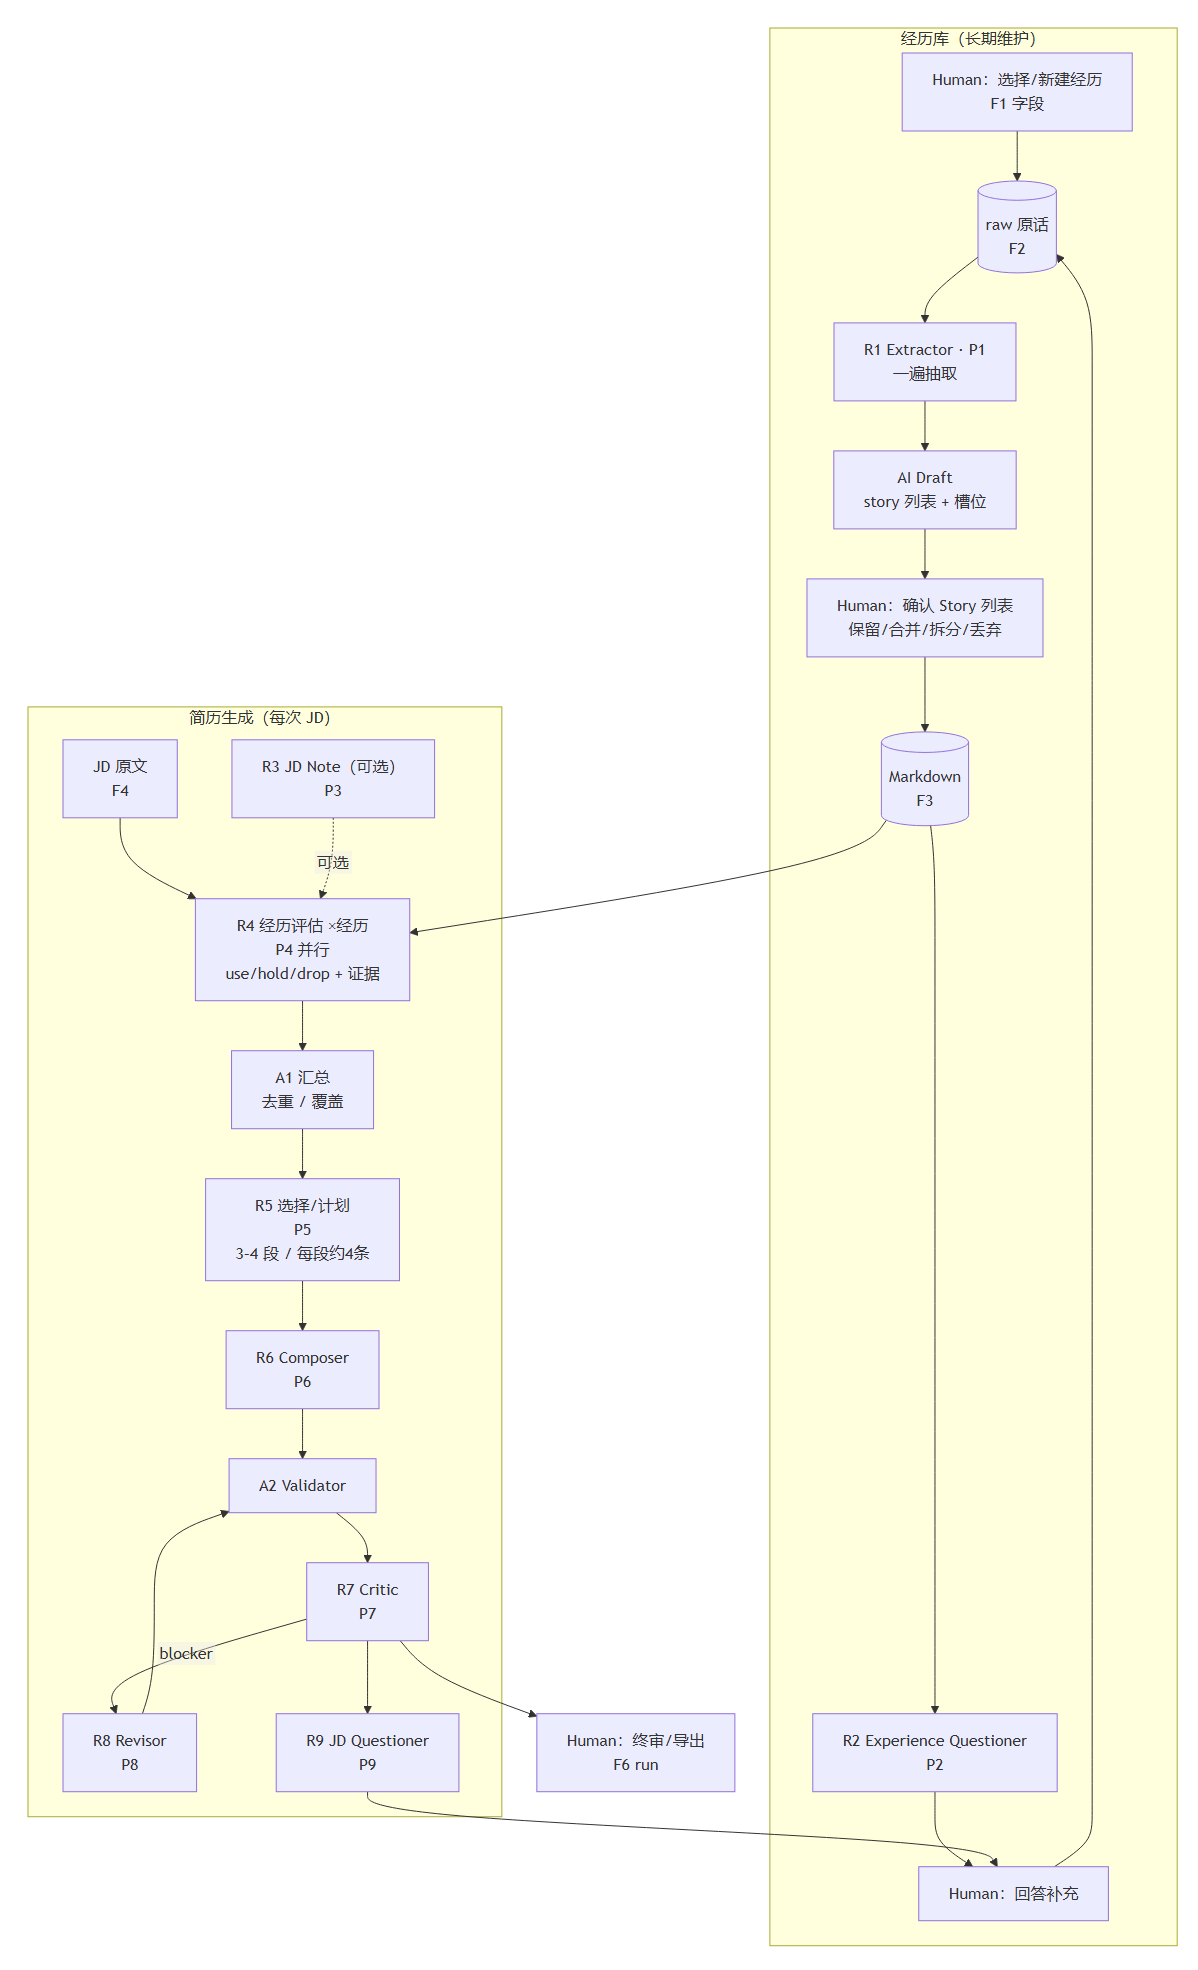
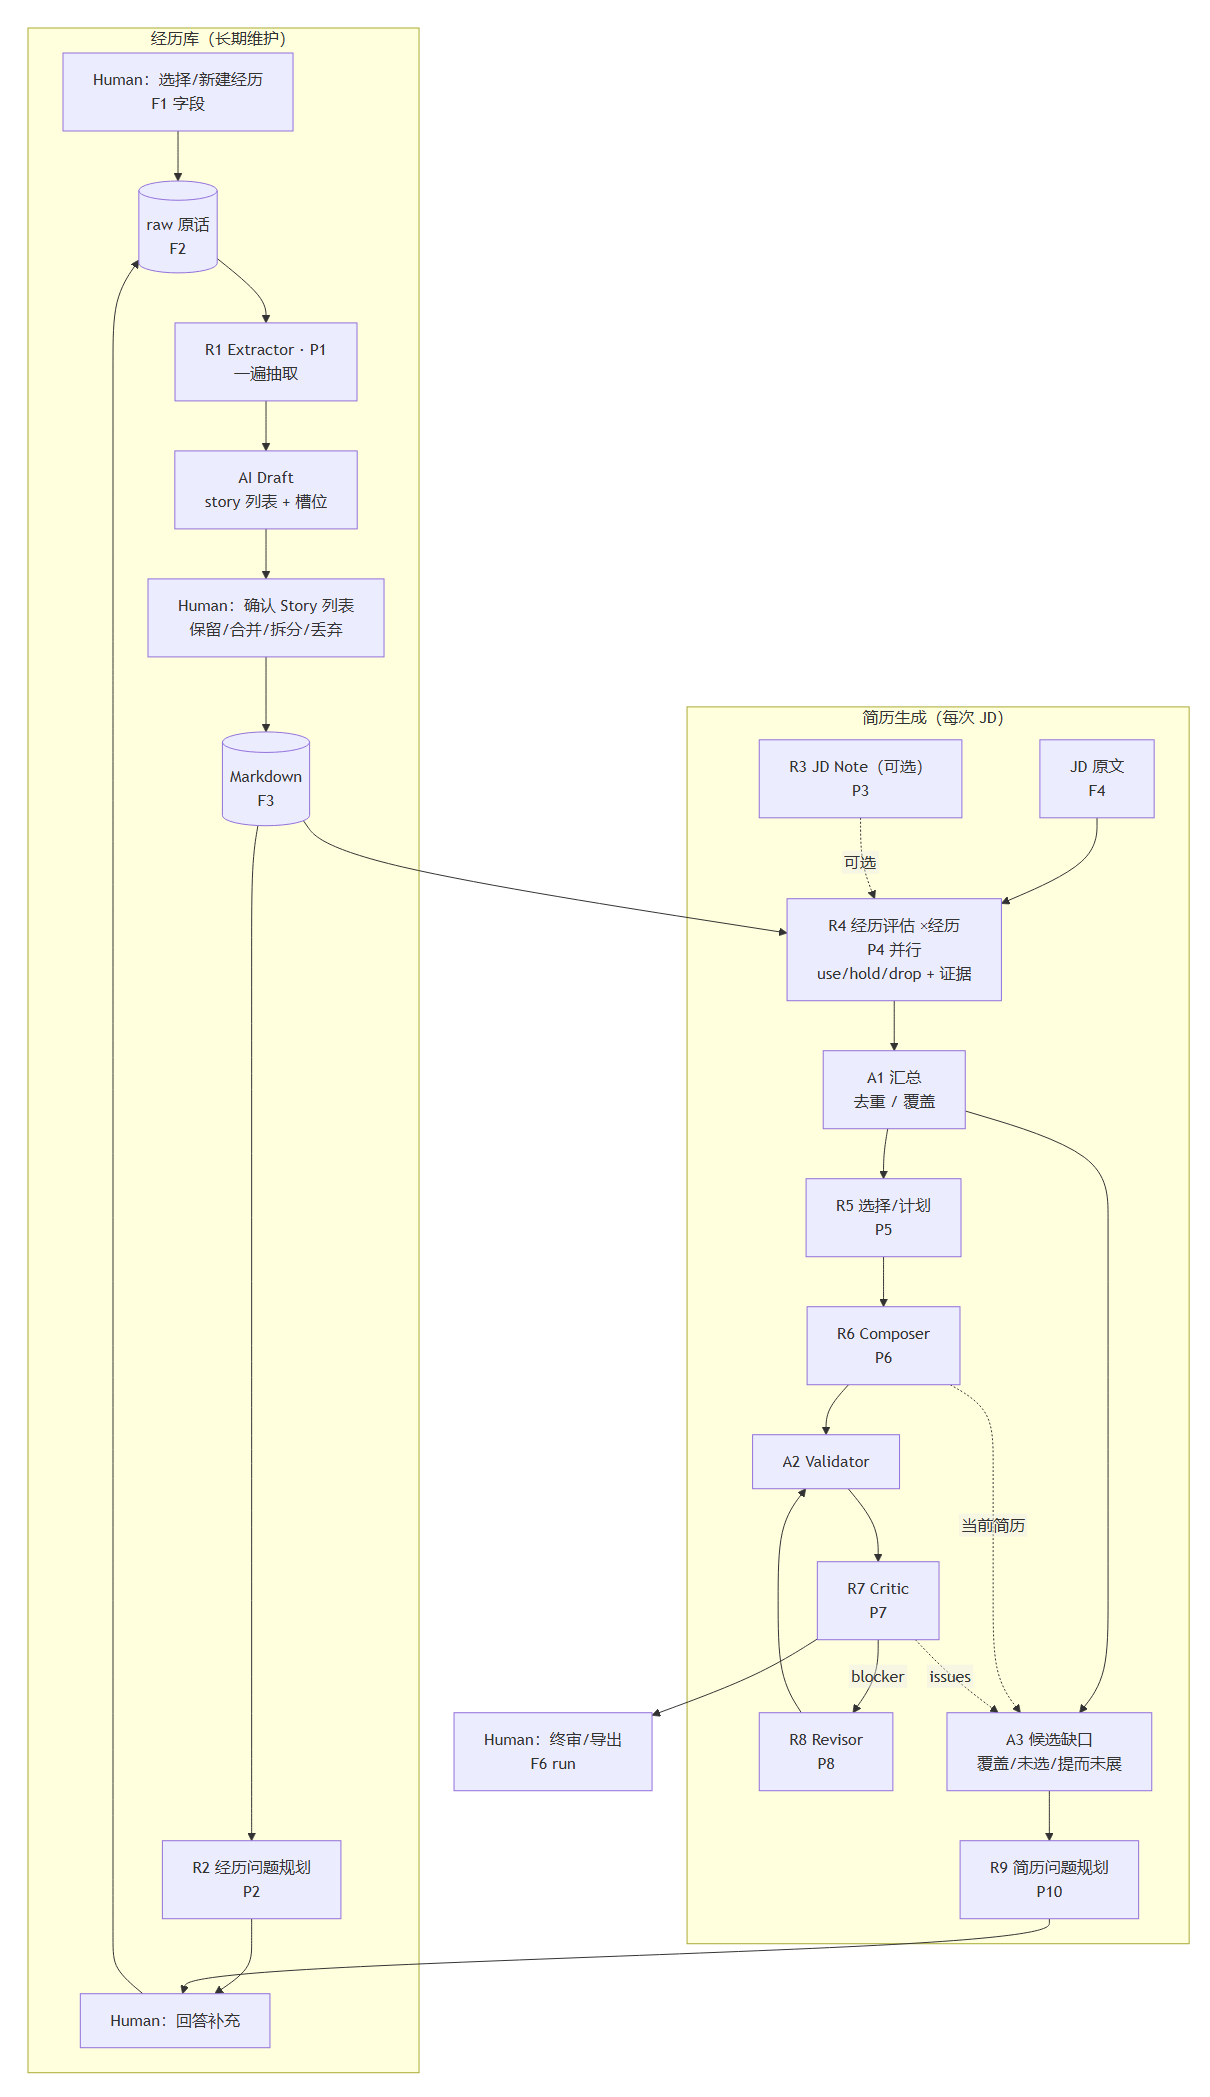
docs: INPUT-FOLLOW 增加两套问题引擎（经历完善/简历新增）、依据与更新频率，更新流程图

diff --git a/prototype/docs/INPUT-FOLLOW.md b/prototype/docs/INPUT-FOLLOW.md
@@ -29,9 +29,9 @@
 | 标记 | 含义 |
 | --- | --- |
 | **F1–F6** | 字段/数据结构 |
-| **P1–P9** | 提示词契约 |
+| **P1–P10** | 提示词契约 |
 | **R0–R9** | 角色（Human / AI 固定角色） |
-| **A1–A2** | 确定性算法节点（非 LLM） |
+| **A1–A3** | 确定性算法节点（非 LLM） |
 
 - **F1** 经历字段：`type / name / role / time`
 - **F2** raw：不可变原话
@@ -236,22 +236,25 @@ time: 2025-10 ~ 2025-11 # 可选
 | --- | --- | --- | --- | --- |
 | R0 | Human | 人 | 新建/选择经历、输入、确认 Story 列表、回答、终审 | — |
 | R1 | Extractor | AI | raw → AI Draft（Story 列表 + 槽位 + Fragment + 未分配细节） | 不写 Markdown、不编事实、不设密度目标 |
-| R2 | Experience Questioner | AI | 经历录入后找缺失/含糊/矛盾，生成问题 | 不补内容、不问泛泛 |
+| R2 | Experience Question Planner | AI | 经历录入后找缺失/含糊/矛盾，生成问题 | 不补内容、不问泛泛、不看 JD |
 | R3 | JD Note | AI（可选） | 带逐字 quote 的 JD 阅读笔记 | 不做 must 门禁、不选材 |
 | R4 | Experience Evaluator | AI（每经历并行） | 原始 JD + 该经历所有 Story → `use/hold/drop` + 证据 + 缺失 | 不跨经历、不打分、不选最终组合 |
 | R5 | Selector/Planner | AI | 汇总各经历评估，决定 3–4 段、每段约 4 条、顺序、背景 | 不编事实、不写 bullet 正文 |
 | R6 | Composer | AI | Story → bullet（约 40 字）+ 背景 | 不改事实、不跨 Story 拼造 |
 | R7 | Critic | AI | 整份简历评审，输出 issues | 不改稿、不新增事实 |
 | R8 | Revisor | AI（有界） | 只按 issues 修订，最多 1–2 轮 | 不扩大范围、不新增事实 |
-| R9 | JD Questioner | AI | 覆盖弱/无证据时生成补充问题 | 不补内容、不设 must 门禁 |
+| R9 | Resume Question Planner | AI | 看 JD+简历+全库，找"可新增一条内容"的覆盖缺口并提问 | 不改写已选 bullet、不做措辞/风格问题 |
 | A1 | Aggregator | 算法 | 合并 R4 结果、去重、覆盖统计 | 不做语义判断 |
-| A2 | Validator | 算法 | schema/引用/字数/顺序/重复校验 | 不改写 |
+| A2 | Validator | 算法 | schema/引用/字数/顺序/重复/问题校验 | 不改写 |
+| A3 | Question Candidate Detector | 算法 | 从覆盖/未选 Story/提而未展/Story 完整度出候选缺口 | 不做提问措辞、不编事实 |
 
 **没有自主 Agent**：R4 是并行 worker，R5 是汇总判断角色，R7/R8 是固定评审/有界修订，全部单轮、固定 I/O。
 
 ---
 
-## 7. 节点契约与提示词（P1–P9）
+## 7. 节点契约与提示词（P1–P10）
+
+> 编号说明：P9 原「JD Questioner」已合并进 P10（Resume Question Planner），P9 号保留空缺。
 
 ### P1 · R1 Extractor（一遍抽取）
 
@@ -408,20 +411,48 @@ time: 2025-10 ~ 2025-11 # 可选
 3. 最多 1 轮（可配 2 轮）；修不掉交人工；
 4. 输出 diff/修改说明。
 
-### P9 · R9 JD Questioner
+### P10 · R9 Resume Question Planner
 
-**输入**：JD 原文 + 覆盖统计 + 草稿。
+**输入**：
+- JD 原文；
+- 当前简历 bullets + 选中的 Story；
+- 全库 Story（含未选中的）；
+- A1 覆盖统计 + R4 matched/missing；
+- A3 候选缺口；
+- Critic issues。
+
 **输出**：
 
 ```json
-{ "questions": [{ "jd_quote": "", "experience_id": "", "story_id": "", "missing": ["metric","scope"], "basis": "", "question": "", "expected_answer": "" }] }
+{
+  "questions": [{
+    "question_id": "hash",
+    "scope": "resume",
+    "purpose": "add_content|fix_evidence",
+    "basis_type": "coverage_missing|adjacent_unselected|mention_not_expanded|evidence_blocker",
+    "action": "add_story|add_bullet",
+    "jd_quote": "逐字引用",
+    "experience_id": "",
+    "story_id": "",
+    "basis_quote": "当前 bullet/Story 原文",
+    "missing": ["metric","scope"],
+    "question": "你在 A 里提到用过 RAG，但只写了使用；JD 要求 RAG 落地，能否补充你具体怎么用（检索范围、召回、评估）？",
+    "expected_answer": { "fields": ["workflow","metric"], "format": "一句话" },
+    "priority": "high|medium|low",
+    "expected_effect": "补一条 RAG 落地 bullet，覆盖 JD 第 3 条"
+  }]
+}
 ```
 
 **提示词硬规则**：
-1. 只针对"重要且覆盖弱/无证据"的要求；
-2. 必须引用 JD 原文和现有 Story/bullet；
-3. 一次一个维度；最多 3 条；
-4. 不假设事实；回答写回 raw，重新走 P1。
+1. **已选中的 bullet 视为可信**：不要提"改措辞/换风格/改事实"的问题；这些交给 Critic/Revisor；
+2. 只问"回答后能**新增一条故事/内容**（或补足一条证据）"的问题；
+3. 问题必须同时引用：JD 原文 + 当前依据（bullet/Story/raw）；
+4. 优先从**未选中的 direct/adjacent Story**里找，而不是让用户从零讲；
+5. 一次只问一个缺失维度；答案可映射到 Story 字段；
+6. 最多 3 条；按覆盖影响排序；不设 must 门禁；
+7. 若回答只能改善措辞/风格 → 不提问；
+8. 不假设事实、不替用户回答。
 
 ### A1 · Aggregator（算法）
 
@@ -437,7 +468,23 @@ time: 2025-10 ~ 2025-11 # 可选
 2. `jd_quote` ∈ JD；`story_quote/evidence_quote` ∈ Story 原文或 raw；
 3. 字数/背景格式；重复 bullet；
 4. 父 Story 不得作为 bullet 证据；
-5. 输出 issues（与 Critic 同 schema），不改稿。
+5. 输出 issues（与 Critic 同 schema），不改稿；问题对象也必须过一遍 schema/basis/target 校验。
+
+### A3 · Question Candidate Detector（算法）
+
+输入：R4/A1 覆盖、当前简历、全库 Story、Story 完整度、Critic issues。
+输出候选（不写问题文案）：
+
+```json
+[{ "scope": "experience|resume", "basis_type": "", "target": { "experience_id": "", "story_id": "", "bullet_id": "" }, "jd_quote": "", "basis_quote": "", "missing": [], "source": "" }]
+```
+
+规则：
+1. 经历侧：Story 缺字段、raw 未分配、矛盾、含糊动作；
+2. 简历侧：JD 覆盖 none/弱、库中 direct/adjacent 但未选的 Story、已选 bullet 提到但证据只到 adjacent/partial；
+3. 去重（target+basis_type+basis_quote）、不做措辞、不编事实；
+4. 候选交给 P2/P10，不直接展示。
+
 
 ---
 
@@ -460,8 +507,9 @@ time: 2025-10 ~ 2025-11 # 可选
 | 13 | A2 | 草稿 | 校验 | issues |
 | 14 | R7 | 草稿+JD | P7 | issues |
 | 15 | R8（条件） | 草稿+blocker | P8 | 修订稿+diff |
-| 16 | R9（条件） | coverage/草稿 | P9 | 问题 |
-| 17 | R0 | 草稿+issues | 终审/导出 | run 完成 |
+| 16 | A3 | coverage/简历/全库 | 候选缺口检测 | candidates |
+| 17 | R9（条件） | candidates | P10 | 简历问题 |
+| 18 | R0 | 草稿+issues | 终审/导出 | run 完成 |
 
 **落盘**：
 - `raw/raw_<id>.json`：`{raw_id, experience_id, text, at}`；
@@ -484,21 +532,138 @@ time: 2025-10 ~ 2025-11 # 可选
 
 ---
 
-## 10. 问题机制
+## 10. 问题引擎（两套问题，不混用）
 
-- 两种触发：经历录入后（R2）；JD 生成后（R9）。
-- Gap/Question 必须带：`{scope, experience_id, story_id, missing[], basis_quote, question, expected_answer}`。
-- 提问门槛：回答会改变 bullet 质量；否则不问。
-- 回答 → 新 raw → P1 Draft → 人确认 Story 列表 → 更新 Markdown → 局部重跑 R4/R5/R6。
-- 禁止：泛问、诱导编造、把答案直接写进正文。
+### 10.1 先定"为什么问"
 
----
+| 问题类型 | 目的 | 不能用来做什么 |
+| --- | --- | --- |
+| **经历问题（Experience Question）** | 让库里的 Story 更完整、更可复用、更能支撑未来 bullet | 不替用户编内容；不改已确认的事实；不是为了"问而问" |
+| **简历问题（Resume Question）** | 提升简历对目标 JD 的覆盖与贴合；**新增一条内容/故事** | 不改写已选中的可信 bullet；不为了措辞/风格提问（那是 Critic/Revisor 的事） |
+
+两者共用 `Question` 对象、存储和展示层，但**生成依据、目的、输入、提示词完全分开**。
+
+### 10.2 生成依据（basis）从哪来
+
+#### 经历问题
+
+| basis_type | 依据 | 例子 | 目的 |
+| --- | --- | --- | --- |
+| `story_incomplete` | Story 缺 `result` / `metric` / `ownership` / `scope` / 关键上下文 | "你写了转化率提升，但没写口径" | 补全 Story |
+| `raw_unassigned` | `unassigned_details` 或 raw 里有信息点没进任何 Story/Fragment | "原文提到复盘文档，但 Story 里没有" | 捕获遗漏事实 |
+| `contradiction` | Story 之间/Story 与 raw 的时间、数字、角色冲突 | "一处写 2000 份，一处写 200 份" | 消除矛盾 |
+| `vague_action` | 动作过于笼统，无法写 bullet | "负责运营"但没有具体动作/结果 | 具体化 |
+
+#### 简历问题
+
+| basis_type | 依据 | 例子 | 目的 |
+| --- | --- | --- | --- |
+| `coverage_missing` | JD 引用在 A1 覆盖中为 `none`/弱，且库里有相关经历 | JD 要求 RAG 落地，但简历没体现 | **新增 Story/bullet** |
+| `adjacent_unselected` | R4 发现库中 Story 有 `direct/adjacent` 证据，但没被选进简历 | A 经历里有 RAG 项目，但这次没选 | 新增一条内容 |
+| `mention_not_expanded` | 已选 bullet/Story 提到了 JD 关心的能力，但证据只到 `adjacent/partial` | "A 里只提了一句用过 RAG，没展开" | 补充新 Story/细节，而不是改旧句 |
+| `evidence_blocker` | Critic 发现某 bullet 无依据，且缺失必须由用户提供 | 数字没有出处 | 只在"必须补证据"时问；否则 Revisor 处理 |
+
+**硬规则：没有 basis 就没有问题；不许"请多补充一点"这种无依据提问。**
+
+### 10.3 生成流程
+
+```
+A3 候选缺口检测（算法）
+  ├─ 经历：Story 缺字段/未分配细节/矛盾/含糊
+  └─ 简历：覆盖缺失/未选 Story/提而未展/Critic 证据问题
+        ↓
+P2 经历问题规划（LLM）        P10 简历问题规划（LLM）
+        ↓                              ↓
+A2 问题校验（算法：basis 存在、target 存在、单维度、可回答、不重复）
+        ↓
+Question Store（状态 + evidence_rev）
+        ↓
+展示：经历页 inline 列表 / 简历页气泡或评论
+```
+
+### 10.4 何时生成、多久更新、展示多少
+
+| 维度 | 经历问题 | 简历问题 |
+| --- | --- | --- |
+| 触发 | Story 列表确认后；用户回答后；手改 Markdown 后；打开经历时（ lazy） | compose + Critic 完成后；改选卡/JD 后；回答后 |
+| 不触发 | 每次按键、每次输入（避免刷屏） | 每次按键、每次预览 |
+| 更新范围 | 只重算受影响的 Story；新增/已回答/已忽略去重 | 只重算受影响的 JD 引用/经历；不全局重来 |
+| 展示数量 | 每次最多 **3 条**，其余进 backlog | 每次最多 **3 条**（气泡/评论），其余进 backlog |
+| 频率 | **事件驱动**，不做定时轮询 | 事件驱动，一次 run 一次 |
+| 已回答 | 标 `answered`，不再展示；同类降权 | 标 `answered`；对应 Story 更新后可能产生新问题 |
+| 依据变化 | `evidence_rev` 变化 → 旧问题标 `expired`，重新评估 | 改选卡/回答后 → 旧问题失效/重算 |
+
+**回答一次就更新，不是每输入一次就重来一轮。**  
+"问题一直有"≠"每次都问"：维护 backlog，只展示当前最高价值的 1–3 条；用户可 dismiss，系统不纠缠。
+
+### 10.5 展示方式
+
+- **经历**：经历详情页的"建议补充"列表/侧栏；每行：问题、依据、缺失字段；可展开来源。
+- **简历**：气泡/评论锚定到 `bullet_id` 或经历；`action=add_story` 时显示"建议新增一条内容"；回答后不直接改简历，而是生成新 Story 提案，用户确认后入库并重算。
+- 气泡和经历问题是**同一个 Question 对象**，只是 `surface` 不同。
+
+### 10.6 问题对象与存储
+
+```json
+{
+  "question_id": "q_hash(target+basis_type+basis_quote)",
+  "scope": "experience | resume",
+  "purpose": "complete_story | add_content | fix_evidence",
+  "basis_type": "story_incomplete | raw_unassigned | contradiction | coverage_missing | adjacent_unselected | mention_not_expanded | evidence_blocker",
+  "target": { "experience_id": "", "story_id": "", "bullet_id": "" },
+  "jd_quote": "",
+  "basis_quote": "",
+  "missing": ["result", "metric"],
+  "question": "",
+  "expected_answer": { "fields": [], "format": "一句话" },
+  "action": "enrich_story | add_story | add_bullet",
+  "priority": "high | medium | low",
+  "status": "candidate | asked | answered | dismissed | expired",
+  "evidence_rev": 12
+}
+```
+
+- 存在 `questions/<experience_id>.json` 与 `runs/<run_id>.json` 的 `questions`；
+- 不写进 Markdown；
+- `question_id` 哈希去重；`evidence_rev` 控制失效；
+- 回答历史保留，避免重复问。
+
+### 10.7 回答回流
+
+1. 回答 → 新 `raw`；
+2. 只对相关经历跑 P1 → AI Draft；
+3. 人确认 Story 列表 → 更新 Markdown；
+4. 重算相关 coverage / 受影响 Story / 相关 bullet；
+5. 旧问题 `answered`；依据变化的问题 `expired`；新缺口进 backlog；
+6. 不全局重跑，不做无限追问；最多一次澄清性 follow-up（仍不足则标 `needs_manual`）。
+
+### 10.8 两套问题的关键差异
+
+| 项 | 经历问题 | 简历问题 |
+| --- | --- | --- |
+| 目的 | 资产完整性 | JD 覆盖与贴合 |
+| 核心依据 | Story 完整度、raw 未分配、矛盾 | JD 覆盖缺口、未选 Story、提而未展 |
+| 动作 | 补/改 Story | **新增 Story/bullet** |
+| 输入 | Markdown + raw + Story | JD + 当前简历 + 全库 Story + 覆盖 + Critic |
+| 是否看 JD | ❌ | ✅ |
+| 展示 | inline | 气泡/评论 |
+| 数量 | ≤3/次 | ≤3/次 |
+| 回答后 | 更新库 | 先入库，再重算简历 |
+
+### 10.9 提示词
+
+- 经历问题：P2（见第 7 节）。
+- 简历问题：P10（见第 7 节）。
+- 候选检测：A3（算法，见第 6 节）。
+- 问题校验：A2（扩展 schema：basis 必须存在于当前材料，target 必须存在，单维度，不重复）。
+
+
 
 ## 11. 调试与测试
 
 ### 11.1 节点留痕
 
-`debug/<run_id>/<R1..R9|A1|A2>.json`：
+`debug/<run_id>/<R1..R10|A1|A3>.json`：
 ```
 { node_id, prompt_id, prompt_version, model, input, output, validation, tokens, elapsed_ms, at }
 ```
@@ -514,11 +679,15 @@ time: 2025-10 ~ 2025-11 # 可选
 7. 父 Story 不作为 bullet 证据；
 8. 同经历多 story 的 use/hold/drop 与最终选择一致；
 9. quote 不在原文 → Validator 拦截；
-10. Critic blocker → Revisor 修订 → 仍不行交人工。
+10. Critic blocker → Revisor 修订 → 仍不行交人工；
+11. 经历问题：basis 必须来自 Story/raw，不能凭空问；
+12. 简历问题：只能新增 Story/bullet，不能要求改写已选 bullet；
+13. 回答后旧问题 resolved/expired，同一依据不重复问；
+14. `mention_not_expanded` 能识别\"只提了一句 RAG\"并生成新增问题。
 
 ### 11.3 验收
 
-- 角色 R0–R9/A1–A2 都有输入/输出/落盘/失败分支；
+- 角色 R0–R9/A1–A3 都有输入/输出/落盘/失败分支；
 - 每个字段有明确写入者/读取者；
 - 每个 prompt 有版本/schema/校验；
 - 不存在"只写在文档里、没有实现出口"的节点。
